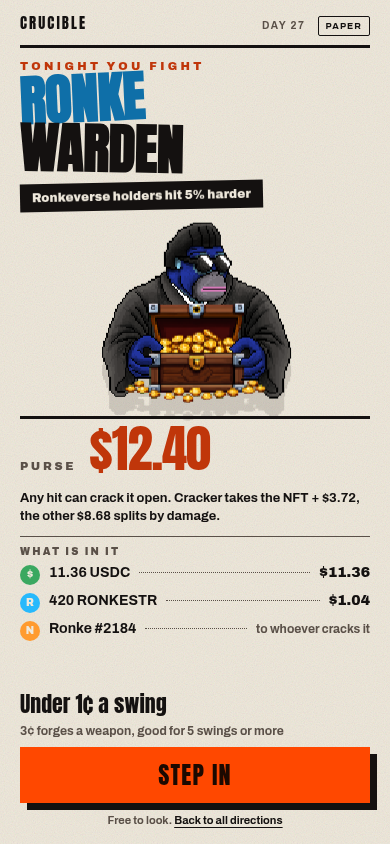
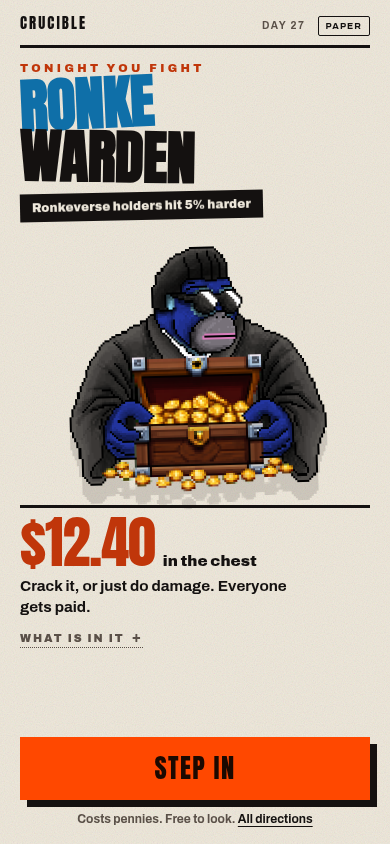
mockups: strip D to pot + one line + button, chest contents become tap-to-open expander

diff --git a/mockups/frontdoor/d-poster.html b/mockups/frontdoor/d-poster.html
@@ -1,29 +1,33 @@
 <!doctype html>
-<html lang="en" data-theme="bone">
+<html lang="en" data-theme="ink">
 <head>
 <meta charset="utf-8">
 <meta name="viewport" content="width=device-width, initial-scale=1, viewport-fit=cover">
-<title>Crucible - Direction D - Poster synthesis</title>
+<title>Crucible - Direction D - Poster (stripped)</title>
 <link rel="preconnect" href="https://fonts.googleapis.com">
 <link rel="preconnect" href="https://fonts.gstatic.com" crossorigin>
 <link href="https://fonts.googleapis.com/css2?family=Anton&family=Archivo:wght@500;700;900&display=swap" rel="stylesheet">
 <style>
-/* Direction D = B's poster language and tilt + C's itemised chest + a much larger Warden.
+/* Direction D, stripped per operator 2026-07-28: pot + one line + button.
+   The itemised chest is now a COLLAPSED expander, not a landing element - two personas
+   reported the open list read as terms-and-conditions and was skipped or bounced off.
+   Cost demoted from headline to a footnote under the CTA (it is an objection-killer,
+   not a reason to start), but kept: hiding price from this audience reads as bait.
    The theme toggle is a REVIEW AFFORDANCE ONLY and would not ship. */
 :root[data-theme="bone"]{
-  --paper:#efe9dc; --ink:#141110; --ink2:#5a5048; --accent:#ff4800; --accent-text:#C0360A;
+  --paper:#efe9dc; --ink:#141110; --ink2:#5a5048; --accent:#ff4800;
+  --accent-text:#C0360A;               /* #ff4800 on bone is 2.82:1 - fails even large-text */
   --rule:#141110; --disc-ink:#efe9dc; --shadow:rgba(20,17,16,.14);
 }
 :root[data-theme="ink"]{
-  --paper:#100d0b; --ink:#f4ede1; --ink2:#9a8d7d; --accent:#ff5a12; --accent-text:#ff5a12;
+  --paper:#100d0b; --ink:#f4ede1; --ink2:#9a8d7d; --accent:#ff5a12;
+  --accent-text:#ff5a12;               /* 6.21:1 on ink - passes */
   --rule:#f4ede1; --disc-ink:#100d0b; --shadow:rgba(0,0,0,.55);
 }
-/* The community word carries that community's colour, WARDEN stays ink, so the
-   front door recolours itself to whoever holds the Warden that day. Each community
-   needs TWO values because a bright brand colour that works on ink fails contrast
-   on bone. Ronke blue is the real Ronkeverse value; the Axie class colour below is
-   a PLACEHOLDER pending the canonical palette. */
-:root{--comm:#0F6FA8}
+/* The community word carries that community's colour, WARDEN stays ink, so the front
+   door rebrands itself daily. Two values per community: a bright brand colour that
+   works on ink fails contrast on bone. Axie value is a PLACEHOLDER. */
+:root{--comm:#27B9FC}
 *{box-sizing:border-box;margin:0;padding:0}
 html,body{background:var(--paper);color:var(--ink);
   font-family:Archivo,system-ui,"Segoe UI",sans-serif;overflow-x:hidden;
@@ -37,9 +41,8 @@ img{image-rendering:pixelated}
 
 .bill{position:relative;z-index:2;min-height:100dvh;max-width:1240px;margin:0 auto;
   padding:max(12px,env(safe-area-inset-top)) 20px max(18px,env(safe-area-inset-bottom));
-  display:grid;grid-template-rows:auto 1fr auto;gap:0}
+  display:grid;grid-template-rows:auto 1fr auto}
 
-/* ---- head ---- */
 .head{display:flex;justify-content:space-between;align-items:baseline;
   padding-bottom:9px;border-bottom:3px solid var(--rule)}
 .house{font-family:Anton,Impact,sans-serif;font-size:clamp(14px,3.8vw,19px);
@@ -51,40 +54,44 @@ img{image-rendering:pixelated}
   text-transform:uppercase;padding:4px 7px;border-radius:2px}
 .tog:hover{color:var(--ink);border-color:var(--ink)}
 
-/* ---- the bout ---- */
-.bout{display:grid;align-content:start;padding-top:12px}
+.bout{display:grid;align-content:start;padding-top:14px}
 
 .tonight{font-size:clamp(10px,2.9vw,12px);font-weight:900;letter-spacing:.3em;
   text-transform:uppercase;color:var(--accent-text)}
 
 .name{font-family:Anton,Impact,sans-serif;text-transform:uppercase;
-  font-size:clamp(46px,14vw,150px);line-height:.84;letter-spacing:-.012em;margin-top:7px}
+  font-size:clamp(50px,15vw,150px);line-height:.84;letter-spacing:-.012em;margin-top:8px}
 .name span{display:block}
 .name .r1{transform:rotate(-2.6deg);transform-origin:left center;color:var(--comm)}
 .name .r2{transform:rotate(.9deg);transform-origin:left center}
 
 .perk{display:inline-block;background:var(--ink);color:var(--paper);
   font-weight:900;font-size:clamp(11px,3.1vw,14px);padding:7px 12px;
-  letter-spacing:.01em;transform:rotate(-1.2deg);margin-top:11px}
+  letter-spacing:.01em;transform:rotate(-1.2deg);margin-top:12px}
 
-/* WARDEN: the dominant element */
-.portrait{display:block;width:clamp(196px,50vw,430px);margin:2px auto 0;
+/* the Warden dominates */
+.portrait{display:block;width:clamp(240px,68vw,440px);margin:8px auto 0;
   filter:drop-shadow(0 18px 0 var(--shadow));animation:sway 4.2s ease-in-out infinite}
 @keyframes sway{0%,100%{transform:rotate(-1.6deg) translateY(0)}50%{transform:rotate(1.6deg) translateY(-7px)}}
 
-/* ---- purse ---- */
-.purse{border-top:3px solid var(--rule);margin-top:8px;padding-top:9px;
-  display:flex;align-items:baseline;gap:13px;flex-wrap:wrap}
-.plab{font-size:clamp(10px,2.9vw,12px);font-weight:900;letter-spacing:.24em;
-  text-transform:uppercase;color:var(--ink2)}
-.pfig{font-family:Anton,Impact,sans-serif;font-size:clamp(46px,13vw,116px);
-  line-height:.82;letter-spacing:-.02em;color:var(--accent-text);font-variant-numeric:tabular-nums}
-.pcond{font-size:clamp(12px,3.3vw,15px);font-weight:700;width:100%;margin-top:4px;line-height:1.4}
+/* the pot, and the one line that says you get paid without winning */
+.purse{border-top:3px solid var(--rule);margin-top:12px;padding-top:11px}
+.pfig{font-family:Anton,Impact,sans-serif;font-size:clamp(50px,14.5vw,120px);
+  line-height:.84;letter-spacing:-.02em;color:var(--accent-text);font-variant-numeric:tabular-nums}
+.pfig small{font-family:Archivo,sans-serif;font-weight:900;font-size:clamp(14px,3.9vw,22px);
+  letter-spacing:0;color:var(--ink);margin-left:8px}
+.pcond{font-size:clamp(14px,3.9vw,18px);font-weight:700;margin-top:8px;line-height:1.35;max-width:30ch}
 
-/* ---- what is in it: print list with dotted leaders ---- */
-.loot{margin-top:11px;border-top:1px solid var(--ink2);padding-top:9px}
-.llab{font-size:10px;font-weight:900;letter-spacing:.22em;text-transform:uppercase;color:var(--ink2)}
-.lrow{display:grid;grid-template-columns:auto auto 1fr auto;align-items:baseline;gap:9px;margin-top:8px}
+/* itemised chest: available on tap, closed on arrival */
+.what{margin-top:11px}
+.what summary{list-style:none;cursor:pointer;display:inline-flex;align-items:center;gap:7px;
+  font-size:11px;font-weight:900;letter-spacing:.18em;text-transform:uppercase;color:var(--ink2);
+  border-bottom:1px dotted var(--ink2);padding-bottom:2px}
+.what summary::-webkit-details-marker{display:none}
+.what summary::after{content:"+";font-size:14px;line-height:1}
+.what[open] summary::after{content:"\2212"}
+.what summary:hover{color:var(--ink)}
+.lrow{display:grid;grid-template-columns:auto auto 1fr auto;align-items:baseline;gap:9px;margin-top:9px}
 .disc{width:20px;height:20px;border-radius:50%;align-self:center;
   display:grid;place-items:center;font-size:10px;font-weight:900;color:var(--disc-ink)}
 .d1{background:#3aa860}.d2{background:#27b9fc}.d3{background:#ff9b2f}
@@ -93,19 +100,16 @@ img{image-rendering:pixelated}
 .lval{font-weight:900;font-size:clamp(13px,3.6vw,16px);white-space:nowrap}
 .lval.soft{color:var(--ink2);font-weight:700;font-size:clamp(11px,3.1vw,13px)}
 
-/* ---- foot ---- */
-.foot{padding-top:12px}
-.priceline{display:flex;align-items:baseline;gap:9px;flex-wrap:wrap;margin-bottom:9px}
-.pl1{font-family:Anton,Impact,sans-serif;font-size:clamp(20px,5.6vw,38px);line-height:1}
-.pl2{font-size:clamp(11px,3.1vw,13px);font-weight:700;color:var(--ink2)}
-.enter{display:block;width:100%;border:0;cursor:pointer;background:var(--accent);color:#1c0900;
+.foot{padding-top:14px}
+.enter{display:block;width:100%;border:0;cursor:pointer;background:var(--accent);
+  color:#1c0900;                       /* near-black on orange = ~6.7:1; white was 3.1:1 */
   font-family:Anton,Impact,sans-serif;text-transform:uppercase;letter-spacing:.05em;
-  font-size:clamp(22px,6.2vw,36px);padding:16px;line-height:1;
+  font-size:clamp(24px,6.8vw,38px);padding:18px;line-height:1;
   box-shadow:7px 7px 0 var(--rule);
   transition:transform .1s cubic-bezier(.16,1,.3,1),box-shadow .1s}
 .enter:hover{transform:translate(-2px,-2px);box-shadow:9px 9px 0 var(--rule)}
 .enter:active{transform:translate(5px,5px);box-shadow:2px 2px 0 var(--rule)}
-.smallprint{margin-top:11px;font-size:11px;font-weight:700;color:var(--ink2);text-align:center}
+.smallprint{margin-top:12px;font-size:12px;font-weight:700;color:var(--ink2);text-align:center}
 .smallprint a{color:var(--ink);text-decoration:underline;text-underline-offset:3px}
 
 @media (min-width:900px){
@@ -114,11 +118,10 @@ img{image-rendering:pixelated}
   .portrait{grid-column:2;grid-row:1 / span 3;width:clamp(300px,36vw,470px);margin:0}
   .name{font-size:clamp(52px,8.6vw,118px)}
   .purse{grid-column:1;margin-top:20px}
-  .loot{grid-column:1}
-  .foot{display:grid;grid-template-columns:auto 1fr;align-items:center;gap:26px;padding-top:20px}
-  .priceline{margin-bottom:0;flex-direction:column;gap:2px}
+  .what{grid-column:1}
+  .foot{display:grid;grid-template-columns:auto 1fr;align-items:center;gap:26px;padding-top:22px}
   .enter{width:auto;padding:20px 64px;justify-self:start}
-  .smallprint{text-align:left}
+  .smallprint{text-align:left;margin-top:0}
 }
 @media (prefers-reduced-motion:reduce){*{animation:none!important;transition:none!important}}
 </style>
@@ -132,7 +135,7 @@ img{image-rendering:pixelated}
     <div class="house">Crucible</div>
     <div class="headr">
       <span class="date">Day 27</span>
-      <button class="tog" id="tog">Paper</button>
+      <button class="tog" id="tog">Ink</button>
     </div>
   </header>
 
@@ -146,51 +149,41 @@ img{image-rendering:pixelated}
     <img class="portrait" src="art/ronke.png" alt="The Ronke Warden">
 
     <section class="purse">
-      <span class="plab">Purse</span>
-      <span class="pfig">$12.40</span>
-      <p class="pcond">Any hit can crack it open. Cracker takes the NFT + $3.72, the other $8.68 splits by damage.</p>
+      <div class="pfig">$12.40<small>in the chest</small></div>
+      <p class="pcond">Crack it, or just do damage. Everyone gets paid.</p>
     </section>
 
-    <section class="loot">
-      <p class="llab">What is in it</p>
+    <details class="what">
+      <summary>What is in it</summary>
       <div class="lrow"><span class="disc d1">$</span><span class="lname">11.36 USDC</span><span class="lead"></span><span class="lval">$11.36</span></div>
       <div class="lrow"><span class="disc d2">R</span><span class="lname">420 RONKESTR</span><span class="lead"></span><span class="lval">$1.04</span></div>
       <div class="lrow"><span class="disc d3">N</span><span class="lname">Ronke #2184</span><span class="lead"></span><span class="lval soft">to whoever cracks it</span></div>
-    </section>
+    </details>
   </main>
 
   <footer class="foot">
-    <div class="priceline">
-      <span class="pl1">Under 1&cent; a swing</span>
-      <span class="pl2">3&cent; forges a weapon, good for 5 swings or more</span>
-    </div>
-    <div>
-      <button class="enter">Step in</button>
-      <p class="smallprint">Free to look. <a href="index.html">Back to all directions</a></p>
-    </div>
+    <button class="enter">Step in</button>
+    <p class="smallprint">Costs pennies. Free to look. <a href="index.html">All directions</a></p>
   </footer>
 
 </div>
 
 <script>
-  // review affordance only, not shipping copy
   const root = document.documentElement, tog = document.getElementById('tog');
 
-  // Per-community palette. Adding a community is one row here: the name word, its art,
-  // its perk line, and its colour on each stock. This is what makes the page rebrand
-  // itself daily. Axie/Kevinity values are PLACEHOLDERS pending real brand colours.
+  // Per-community palette. Adding a community is one row: the name word, its art, its
+  // perk line, and its colour on each stock. Axie values are PLACEHOLDERS.
   const COMMUNITIES = {
     ronke: { word:'Ronke', art:'art/ronke.png', bone:'#0F6FA8', ink:'#27B9FC',
              perk:'Ronkeverse holders hit 5% harder' },
     beast: { word:'Beast', art:'art/beast.png', bone:'#8A4E0B', ink:'#F0A33C',
              perk:'Beast Axie holders hit 5% harder' },
   };
-  const key = new URLSearchParams(location.search).get('w');
-  const comm = COMMUNITIES[key] || COMMUNITIES.ronke;
+  const comm = COMMUNITIES[new URLSearchParams(location.search).get('w')] || COMMUNITIES.ronke;
 
   document.querySelector('.name .r1').textContent = comm.word;
-  document.querySelector('.portrait').src = comm.art;
-  document.querySelector('.portrait').alt = 'The ' + comm.word + ' Warden';
+  const art = document.querySelector('.portrait');
+  art.src = comm.art; art.alt = 'The ' + comm.word + ' Warden';
   document.querySelector('.perk').textContent = comm.perk;
 
   const paint = () => root.style.setProperty('--comm', comm[root.dataset.theme]);

diff --git a/mockups/frontdoor/index.html b/mockups/frontdoor/index.html
@@ -38,8 +38,8 @@ a.card:active{transform:scale(.99)}
   <div class="list">
     <a class="card" href="d-poster.html" style="border-color:rgba(255,194,71,.55)">
       <div class="k">DIRECTION D &middot; SYNTHESIS</div>
-      <div class="t">Poster + Loot</div>
-      <div class="d">B's poster language and tilt, C's itemised chest, Warden much larger. Has a paper/ink toggle top right so you can judge the palette separately from the layout.</div>
+      <div class="t">Poster (stripped)</div>
+      <div class="d">Stripped to pot, one line, one button. Chest contents are a tap-to-open expander. Ink palette by default per the red team; toggle top right to compare paper.</div>
     </a>
     <a class="card" href="a-odometer.html">
       <div class="k">DIRECTION A</div>
